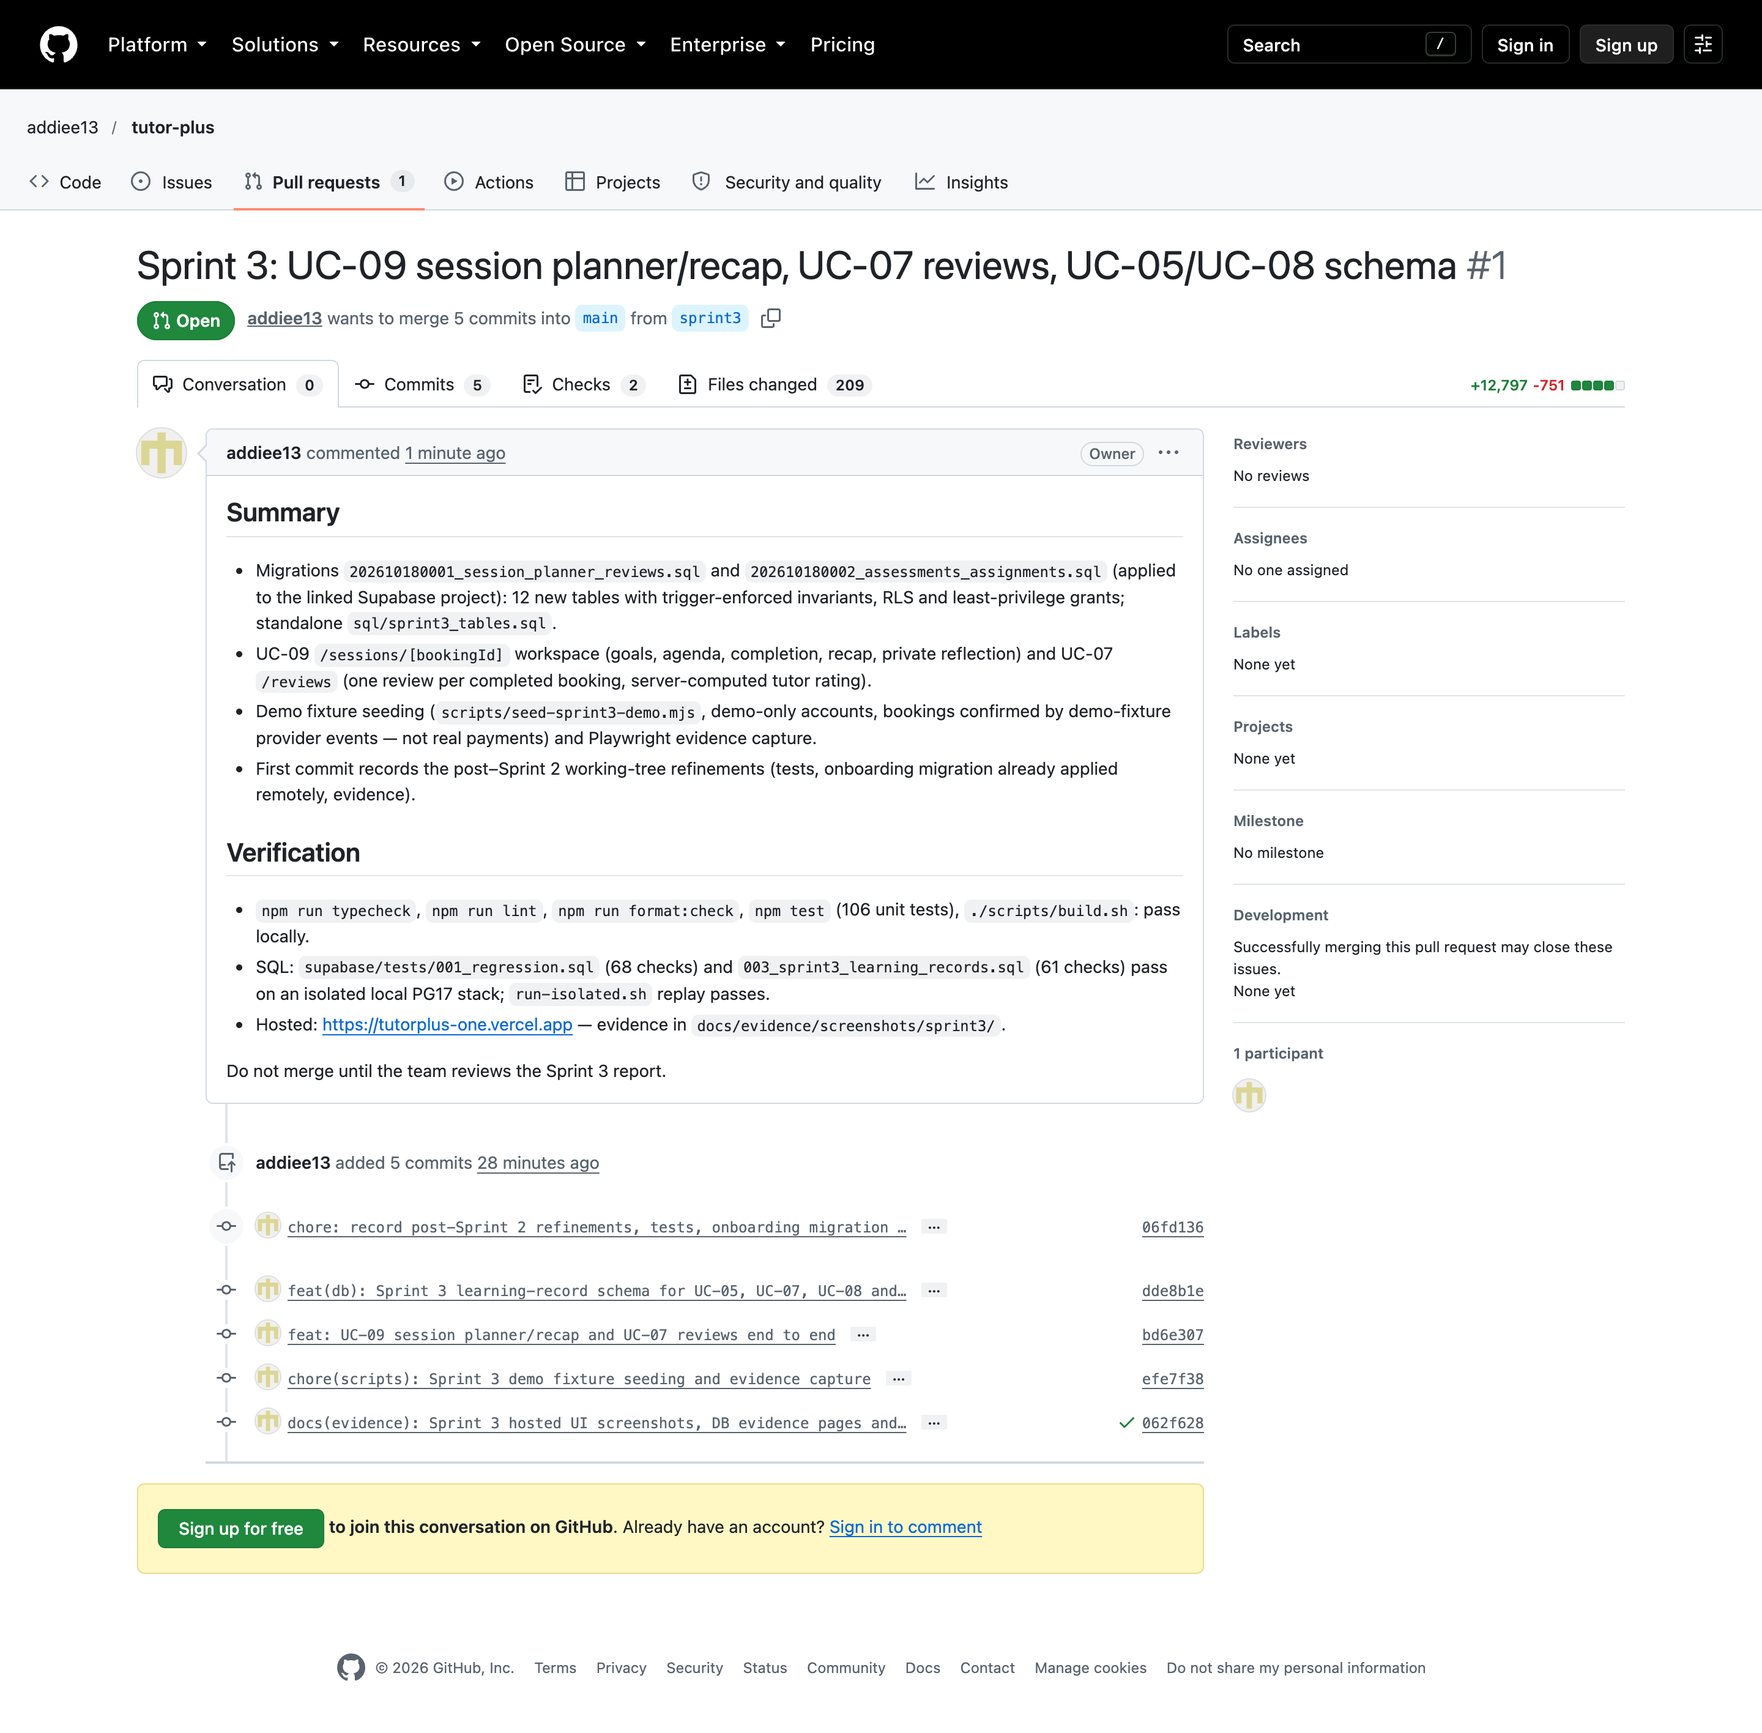
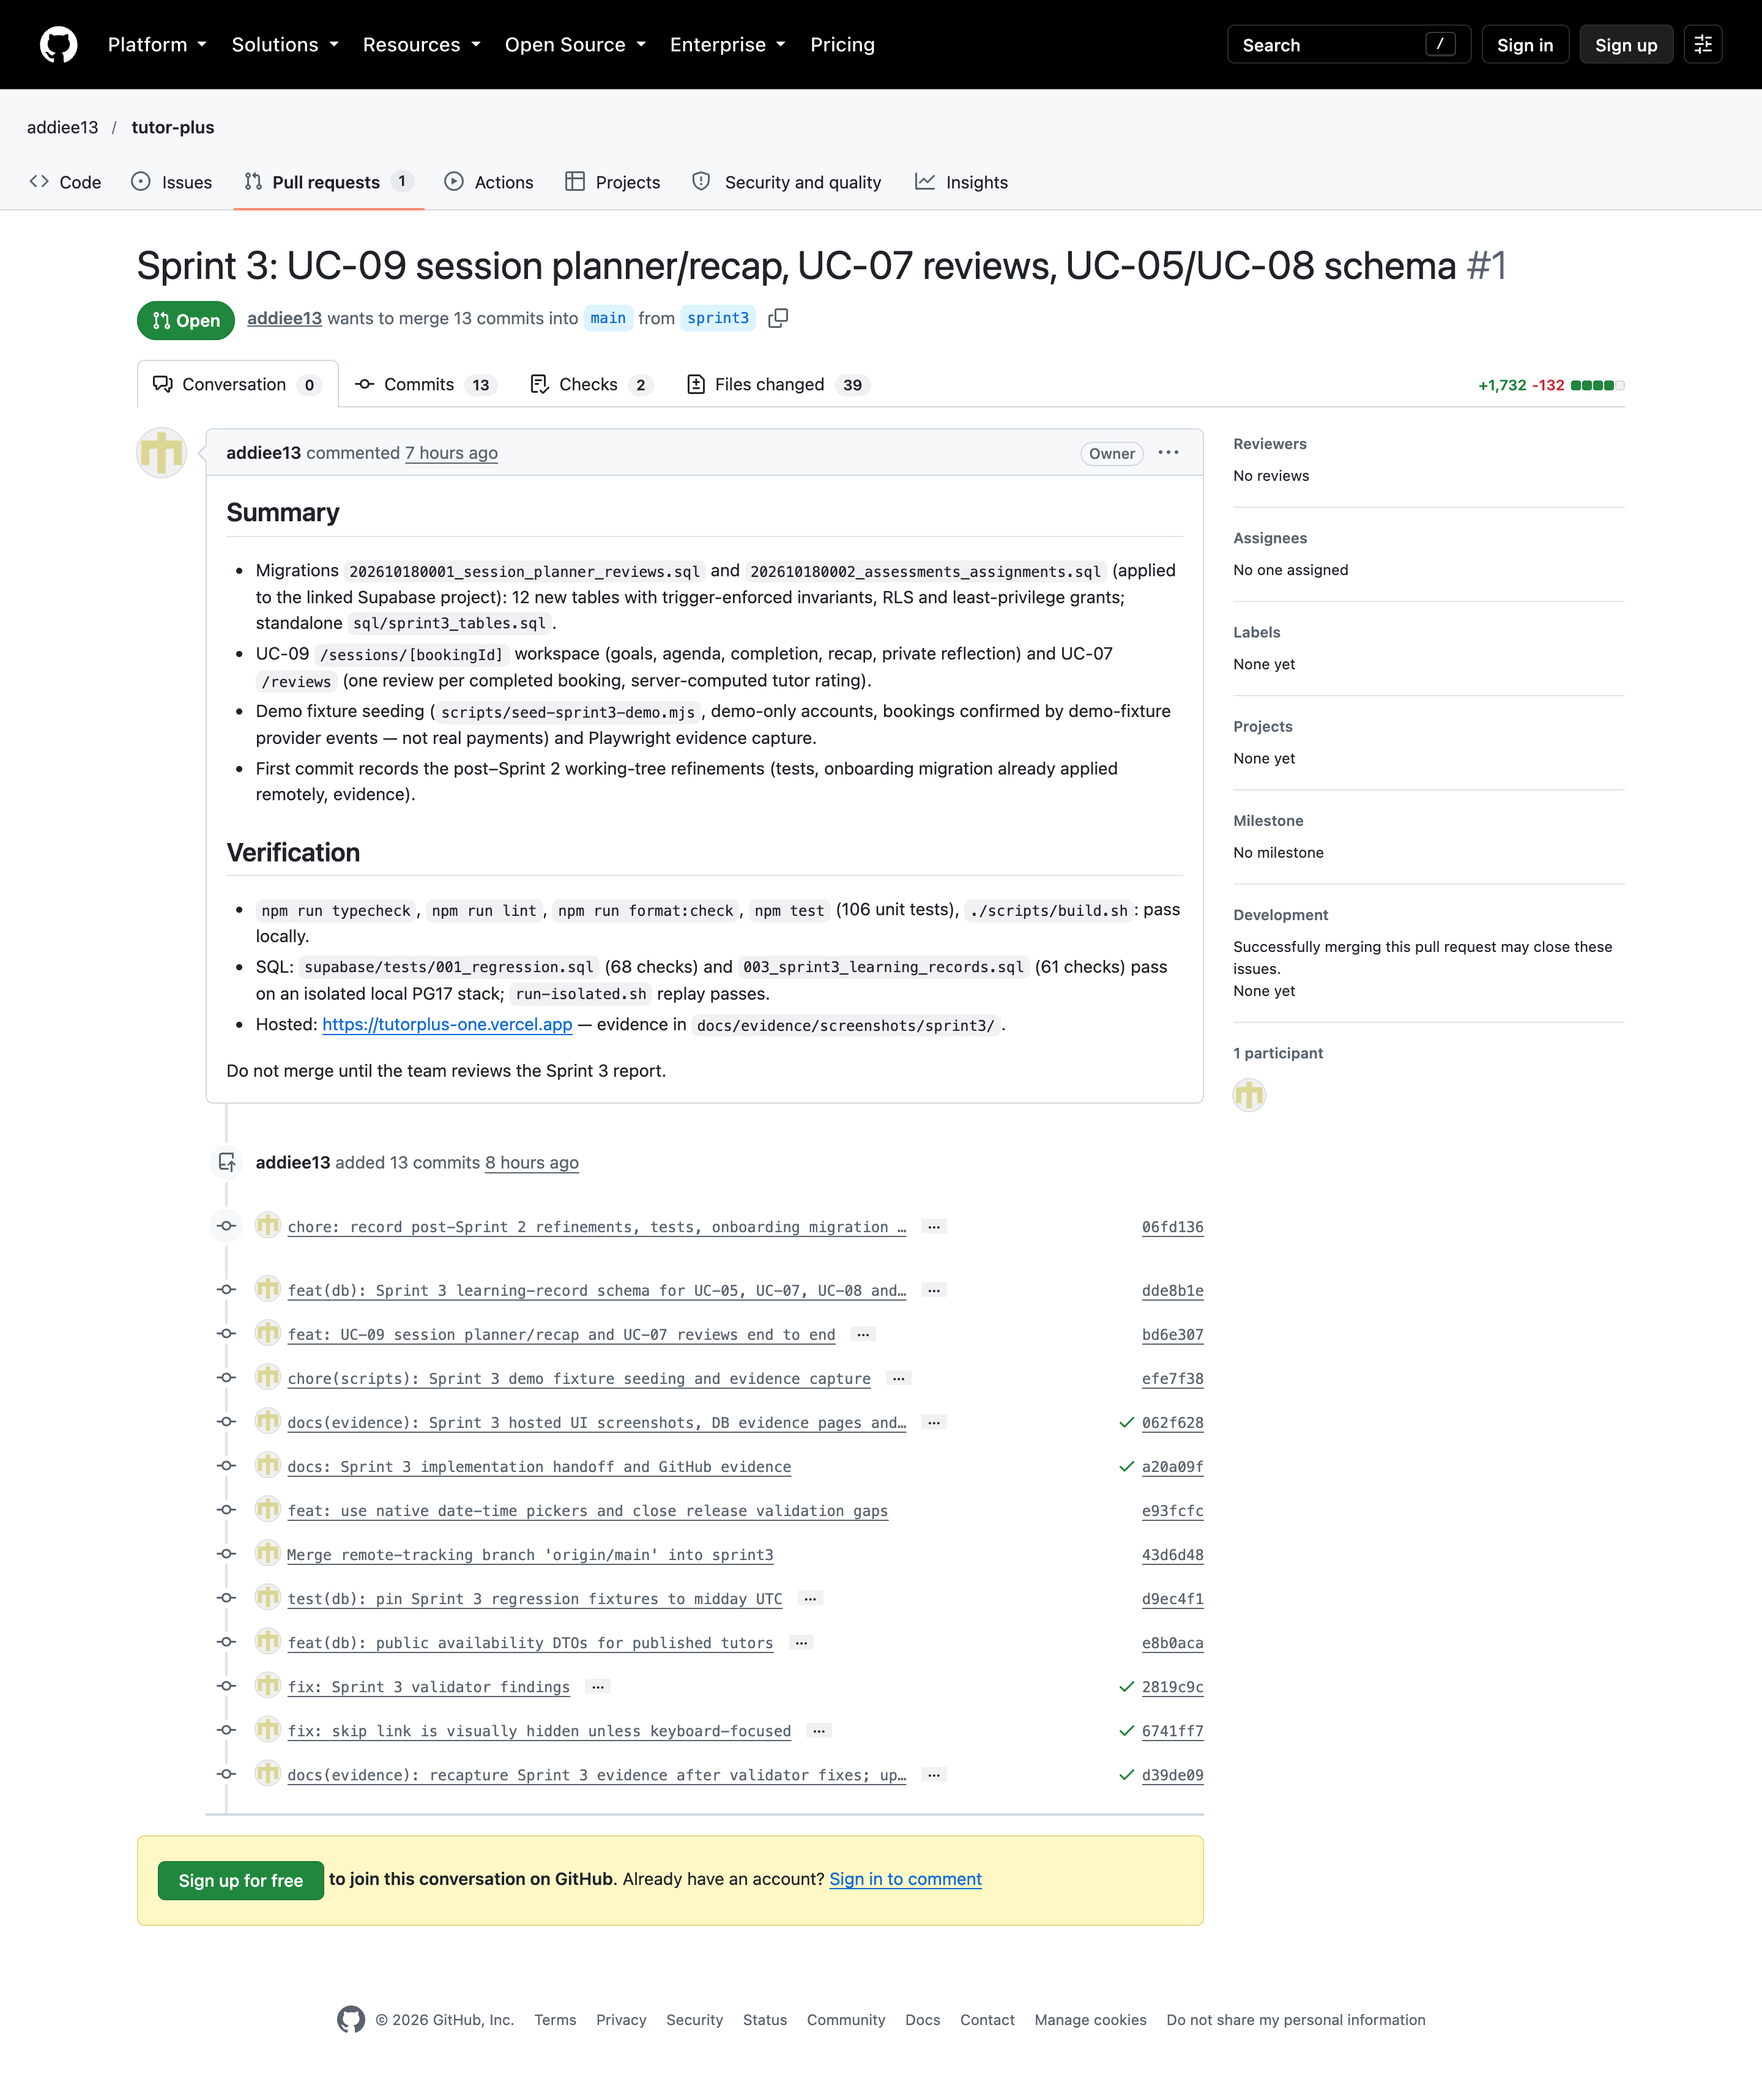
docs(evidence): refresh GitHub repo, PR and Sprint 3 board screenshots

diff --git a/docs/sprint3/IMPLEMENTATION_HANDOFF.md b/docs/sprint3/IMPLEMENTATION_HANDOFF.md
@@ -283,7 +283,7 @@ UI images: 1440×900 viewport at device scale 2 (2880 px wide, full page), light
 | db-02-sprint3-reviews-ratings.png | Linked-DB rows: the walkthrough review, tutor_rating_summaries (5.00, 3 reviews), row counts, and all four applied Sprint 3 migrations. |
 | db-03-sprint3-schema-security.png | Catalog inventory of the 12 Sprint 3 tables: RLS enabled, policy/constraint/trigger counts. |
 | github-01-repo-sprint3-branch.png | Public repository on the `sprint3` branch with the Sprint 3 README. |
-| github-02-pull-request.png | PR #1 sprint3 → main with its current commits and passing CI. |
+| github-02-pull-request.png | PR #1 sprint3 → main at head `d39de09` with passing CI (the later screenshot-only commit is not shown). |
 | github-03-project-board.png | Project board "Sprint 3 board" view (Board layout grouped by Status, filtered to S3 cards): To Do / In Progress / Done columns. |
 
 Logs in `docs/evidence/sprint3/`: `db-isolated-regression.log`, `db-push.log`, `db-push-004.log`, `migration-list.log`, `table-stats.log`, `build-sh.log`.
@@ -302,7 +302,7 @@ Logs in `docs/evidence/sprint3/`: `db-isolated-regression.log`, `db-push.log`, `
 | `npm test` | 6 files, 110 tests passed |
 | `./scripts/build.sh` | exit 0 (`docs/evidence/sprint3/build-sh.log`) |
 | `vercel deploy --prod --yes` | Ready: `tutorplus-68p9ca0kj-adams-projects-c67ba2f3.vercel.app`, aliased to https://tutorplus-one.vercel.app |
-| GitHub Actions `quality` on PR #1 | see §10 |
+| GitHub Actions `quality` on PR #1 | pass (both runs) at head `d39de09`; PR mergeable, not merged |
 
 SQL regressions ran against a disposable local database, not production. Production was verified through the hosted UI flow and read-only queries.
 
